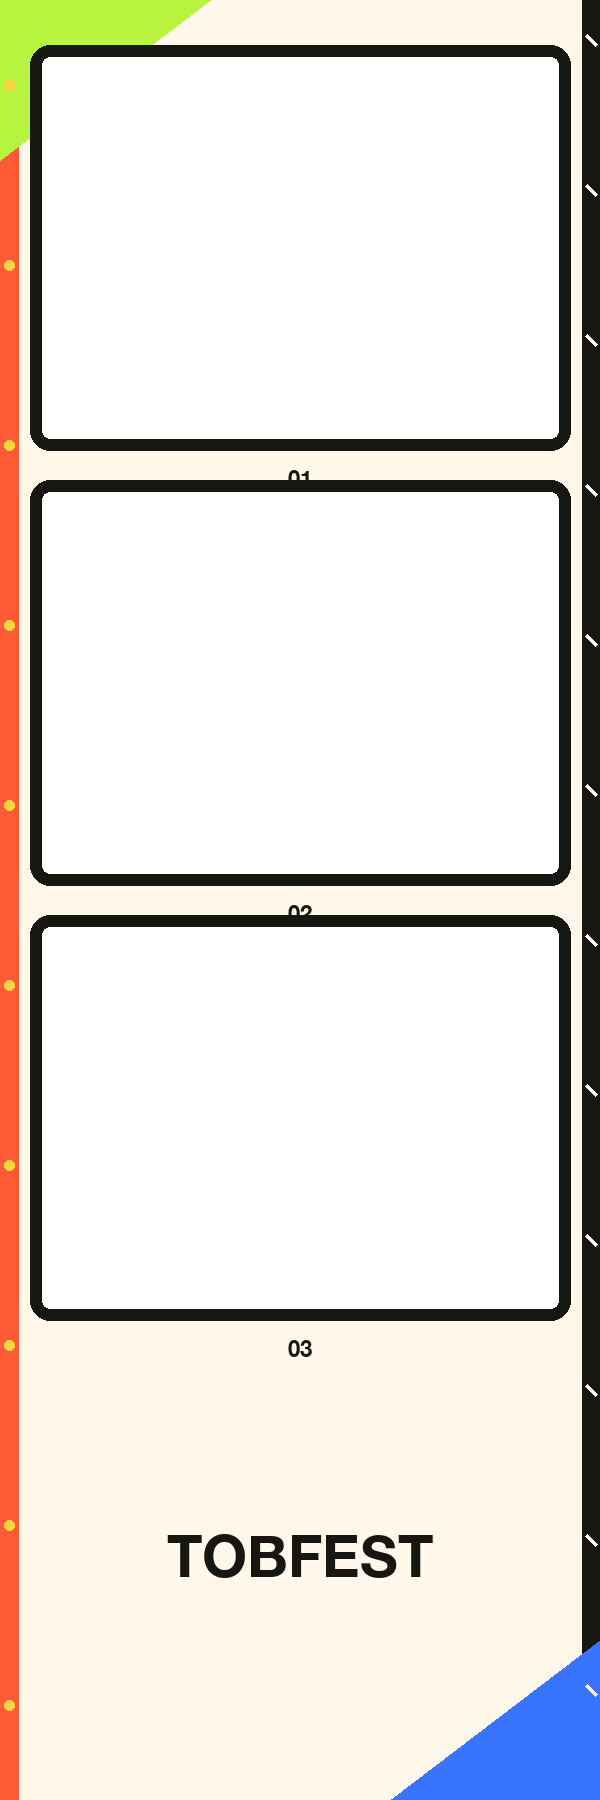
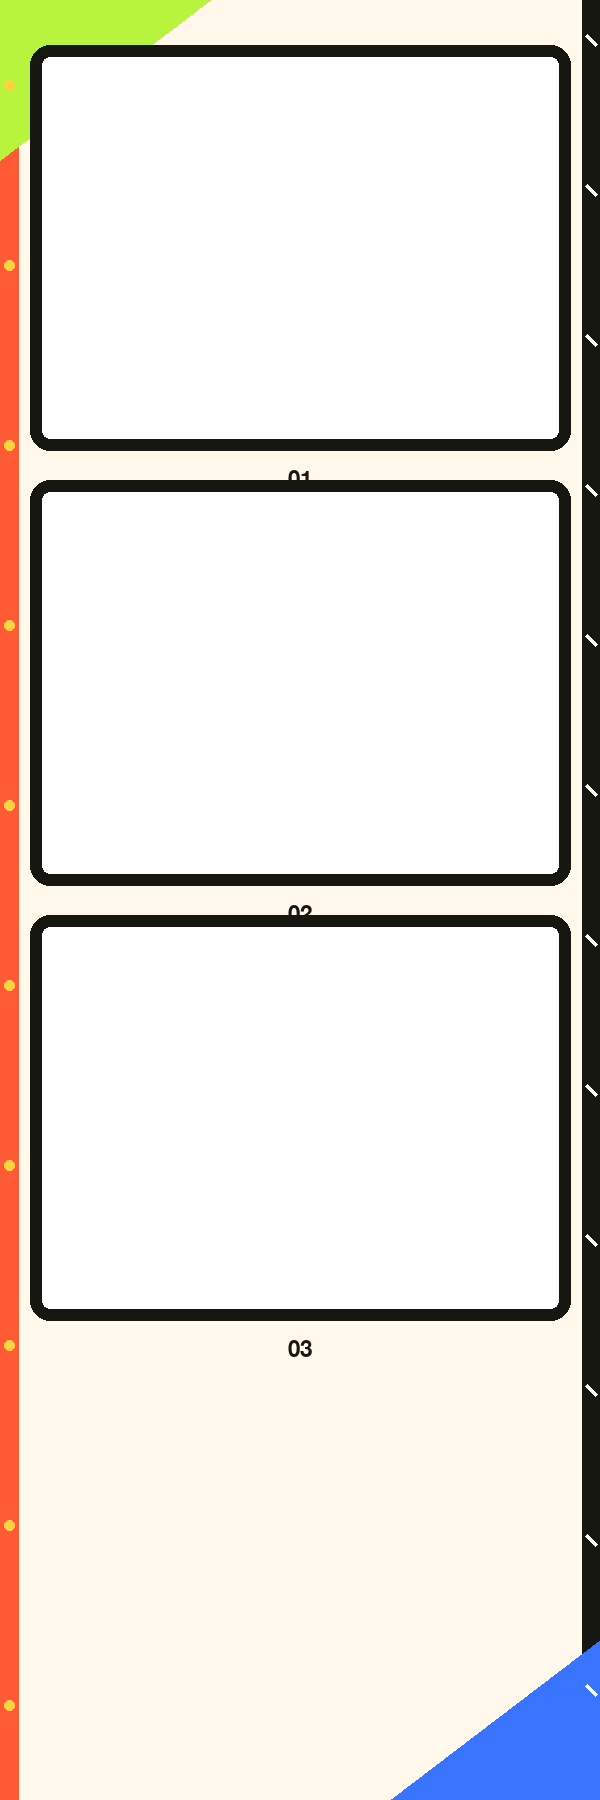
feat: brand the bottom of every photo strip

Changed region(s): [[0.27, 0.84, 0.72, 0.9022]]

diff --git a/src/App.css b/src/App.css
@@ -601,10 +601,6 @@
   align-items: center;
 }
 
-.frame-picker-page .mini-brand {
-  display: none;
-}
-
 .frame-picker-pattern {
   width: min(1080px, calc(100% - 64px));
   min-height: calc(100svh - 196px);
@@ -804,14 +800,15 @@
 
 .mini-brand {
   position: absolute;
-  bottom: 6px;
-  left: 12px;
-  z-index: 2;
+  top: 83%;
+  left: 50%;
+  z-index: 3;
+  transform: translateX(-50%);
   font-size: 8px;
   font-weight: 950;
 }
 
-.frame-artwork.compact .mini-brand { left: 7px; bottom: 3px; font-size: 5px; }
+.frame-artwork.compact .mini-brand { top: 83%; left: 50%; font-size: 5px; }
 .frame-dot { width: 24px; height: 24px; position: absolute; bottom: -5px; right: 4px; border-radius: 50%; background: var(--frame-accent); }
 .uploaded-overlay { width: 100%; height: 100%; position: absolute; inset: 0; z-index: 2; object-fit: fill; }
 
@@ -1221,7 +1218,6 @@
   background: var(--template-accent);
 }
 
-.preset-full-template strong,
 .preset-full-template span {
   position: absolute;
   z-index: 1;
@@ -1230,9 +1226,20 @@
   font-weight: 950;
 }
 
-.preset-full-template strong { left: 4%; font-size: clamp(13px, 2.5vw, 28px); }
 .preset-full-template span { right: 4%; font-size: clamp(10px, 2vw, 20px); }
 .full-template-overlay { object-fit: fill; }
+
+.template-brand {
+  position: absolute;
+  z-index: 5;
+  top: 83%;
+  left: 50%;
+  transform: translate(-50%, -50%);
+  color: var(--ink);
+  font-size: clamp(15px, 2.5vw, 28px);
+  font-weight: 950;
+  pointer-events: none;
+}
 
 .editor-controls {
   display: grid;

diff --git a/src/modules/camera/application/compose-live-template.ts b/src/modules/camera/application/compose-live-template.ts
@@ -140,10 +140,16 @@ export async function composeLiveTemplate(
       ))
       context.fillStyle = frame.accent
       context.fillRect(offsetX, canvas.height - 66, TEMPLATE_WIDTH * OUTPUT_SCALE, 66)
-      context.fillStyle = '#171711'
-      context.font = '900 32px Arial, sans-serif'
-      context.fillText('TOBFEST', offsetX + 35, canvas.height - 21)
     }
+
+    context.fillStyle = '#171711'
+    context.font = '900 38px Arial, sans-serif'
+    context.textAlign = 'center'
+    context.fillText(
+      'TOBFEST',
+      offsetX + (TEMPLATE_WIDTH * OUTPUT_SCALE) / 2,
+      1535 * OUTPUT_SCALE,
+    )
   }
 
   const draw = () => {

diff --git a/src/modules/camera/application/compose-photo-strip.ts b/src/modules/camera/application/compose-photo-strip.ts
@@ -59,9 +59,6 @@ function drawPresetTemplate(context: CanvasRenderingContext2D, frame: PhotoFrame
 
   context.fillStyle = frame.accent
   context.fillRect(0, TEMPLATE_HEIGHT - 132, TEMPLATE_WIDTH, 132)
-  context.fillStyle = '#171711'
-  context.font = '900 64px Arial, sans-serif'
-  context.fillText('TOBFEST', 70, TEMPLATE_HEIGHT - 43)
 
   context.fillStyle = frame.accentSoft
   context.beginPath()
@@ -108,6 +105,11 @@ export async function composePhotoStrip(
   } else {
     drawPresetTemplate(context, frame)
   }
+
+  context.fillStyle = '#171711'
+  context.font = '900 76px Arial, sans-serif'
+  context.textAlign = 'center'
+  context.fillText('TOBFEST', TEMPLATE_WIDTH / 2, 1535)
 
   return new Promise((resolve, reject) => {
     canvas.toBlob(

diff --git a/src/modules/camera/presentation/photo-template-editor.tsx b/src/modules/camera/presentation/photo-template-editor.tsx
@@ -172,11 +172,11 @@ export function PhotoTemplateEditor({
 
         {frame.kind === 'preset' && (
           <div className="preset-full-template" aria-hidden="true">
-            <strong>TOBFEST</strong>
             <span>0{activeSlot + 1}</span>
           </div>
         )}
         {overlayUrl && <img className="full-template-overlay" src={overlayUrl} alt="" />}
+        <strong className="template-brand" aria-hidden="true">TOBFEST</strong>
       </div>
 
       <div className="editor-controls">

diff --git a/scripts/generate-example-template.py b/scripts/generate-example-template.py
@@ -42,11 +42,6 @@ def main() -> None:
         draw.rounded_rectangle(slot, radius=20, outline=(23, 23, 17, 255), width=12)
         draw.text((300, slot[3] + 14), f"0{index}", font=font(22), fill=(23, 23, 17, 255), anchor="ma")
 
-    title_layer = Image.new("RGBA", (500, 110), (0, 0, 0, 0))
-    title_draw = ImageDraw.Draw(title_layer)
-    title_draw.text((250, 55), "TOBFEST", font=font(58), fill=(23, 23, 17, 255), anchor="mm")
-    image.alpha_composite(title_layer, (50, 1500))
-
     OUTPUT.parent.mkdir(parents=True, exist_ok=True)
     image.save(OUTPUT, format="PNG", optimize=True)
 

diff --git a/README.md b/README.md
@@ -83,6 +83,7 @@ PIN ini merupakan pengunci lokal kiosk, bukan autentikasi server. Gunakan Guided
 - File PNG transparan.
 - Ukuran template strip `600 × 1800 px` atau 2 × 6 inci pada 300 DPI.
 - PNG merupakan satu desain strip penuh dan akan diduplikasi otomatis ke lembar 4R.
+- Tulisan **TOBFEST** ditambahkan otomatis pada area kosong bawah setiap strip.
 - Ukuran file maksimal 10 MB.
 - Frame disimpan secara lokal pada iPad dan tetap tersedia ketika offline.
 - Hasil unduhan berupa kanvas 4R portrait `1200 × 1800 px` berisi dua strip identik berukuran `600 × 1800 px`.